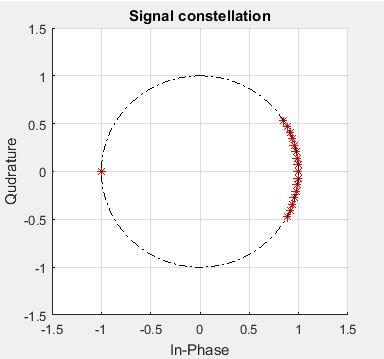
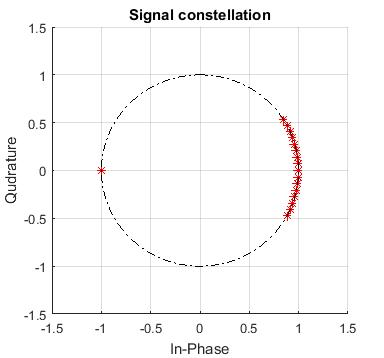
Update

diff --git a/_portfolio/rfid_system_simulation.md b/_portfolio/rfid_system_simulation.md
@@ -43,7 +43,7 @@ All equations, models, and algorithms in this repository were derived, verified,
 ## Model
 
 {: .notice--warning}
-Additional content and explanation may be added in this page as and when time permits. Any questions through email on the simulation is much welcomed.
+Any questions through email on the simulation is much welcomed.
 
 The main file in this simulation model is named `PSKSim.m`. To begin, simply run this main file with the preset default simulation parameters. It will plot various graphs visualizing the entire signal transmission from the transmitter to the symbol decision stage. 
 
@@ -67,7 +67,7 @@ The wireless communication chain that is simulated in this project includes:
 ### Transmitter
 The transmitter simulates `M`-ary PSK signal at carrier frequency `fc` and at data rate of `fc/4`. The `constellation.m` file defines the PSK constellation map on the complex plane and symbol bit encoding. Differential encoding is used to counter cycle slips.
 <div style="text-align: center">
-  <a href="/assets/images/rfid_02_constellation_map.jpg"><img src="/assets/images/rfid_02_constellation_map.jpg" height="40%" width="40%"></a>
+  <a href="/assets/images/rfid_02_constellation_map.jpg"><img src="/assets/images/rfid_02_constellation_map.jpg" height="55%" width="55%"></a>
   <figcaption>Fig. 16-ary PSK constellation points on the unit-radius circle, plus one end-of-packet symbol at coordinate $(-1, 0)$</figcaption>
 </div>
 
@@ -164,7 +164,7 @@ Our PLL simulation model include quantization noise, saturation noise, and phase
 
 <div style="text-align: center">
   <a href="/assets/images/rfid_07_pll_signal.jpg"><img src="/assets/images/rfid_07_pll_signal.jpg" height="100%" width="90%"></a>
-  <figcaption>Fig. Graphs visualizing the (i)input signal to PLL, (ii)TDC output, (iii)LF output, and (iv) DCO output.</figcaption>
+  <figcaption>Fig. Graphs visualizing the (i)Frequency of DCO output, (ii)Phase of DCO and TDC output, and (iii)Code levels of LF and TDC output.</figcaption>
 </div>
 
 Interested readers are referred to W. Tranter[^4] who provides excellent intuitive development of PLL models with accompanying MATLAB codes.
